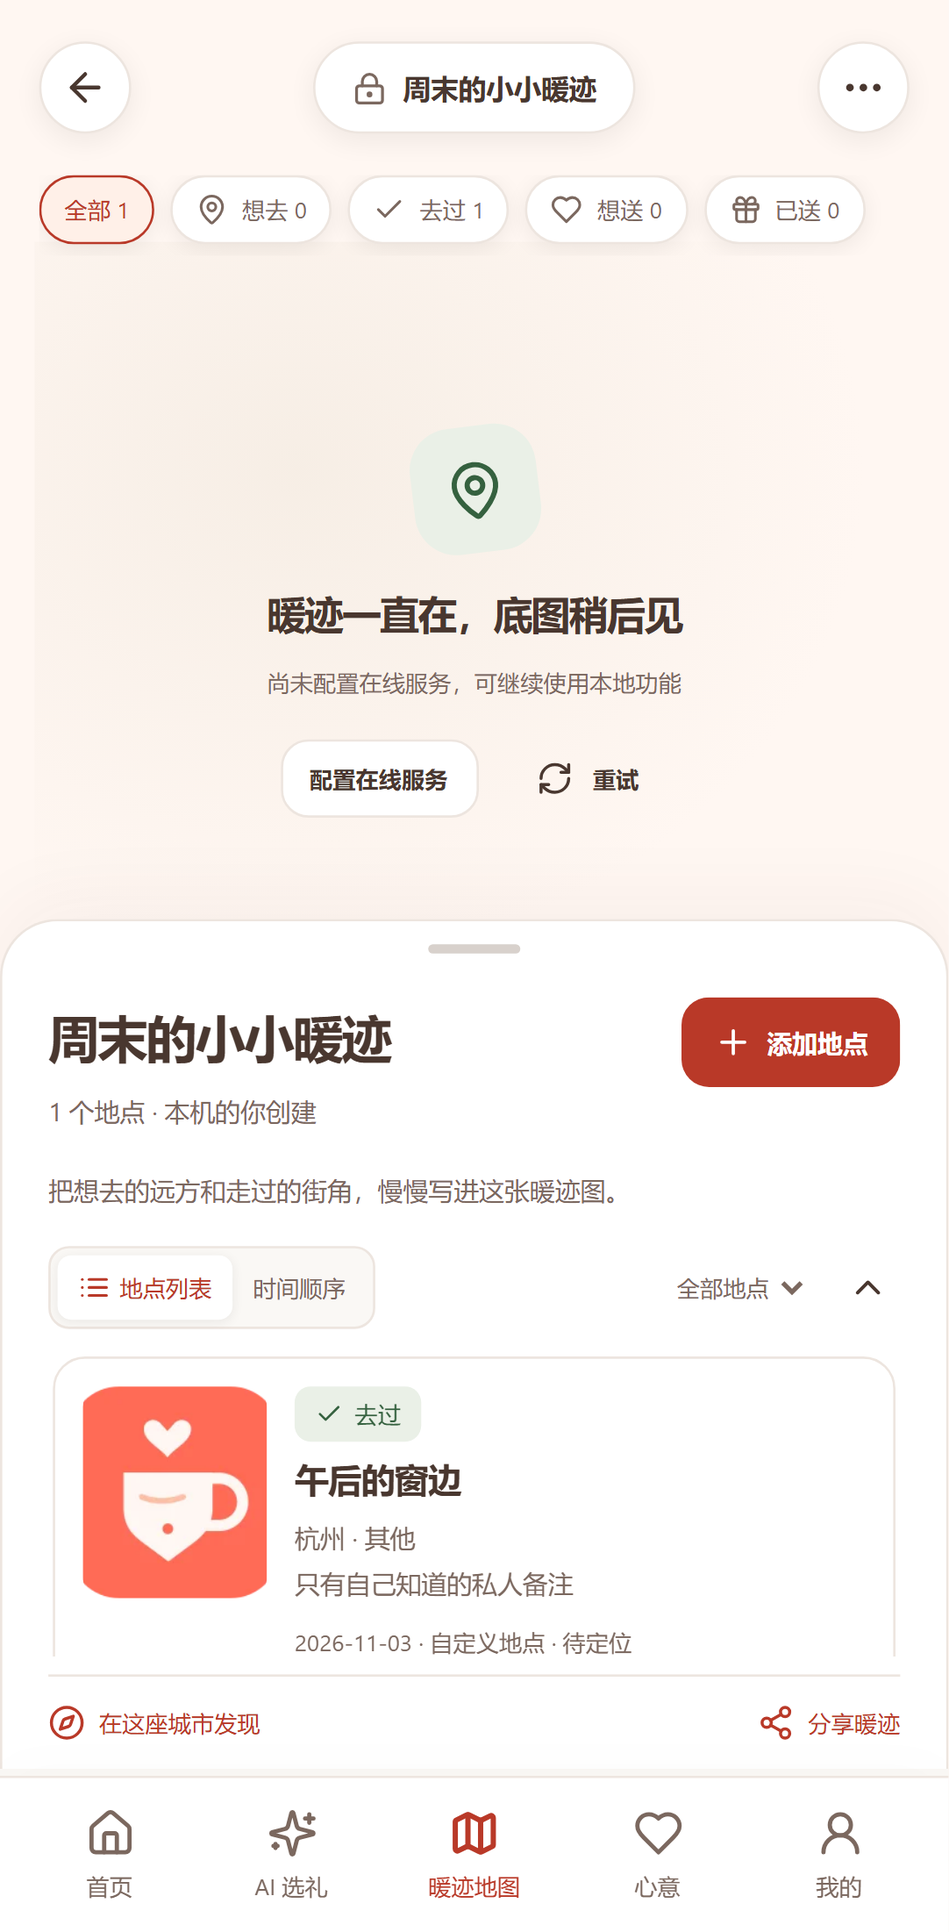
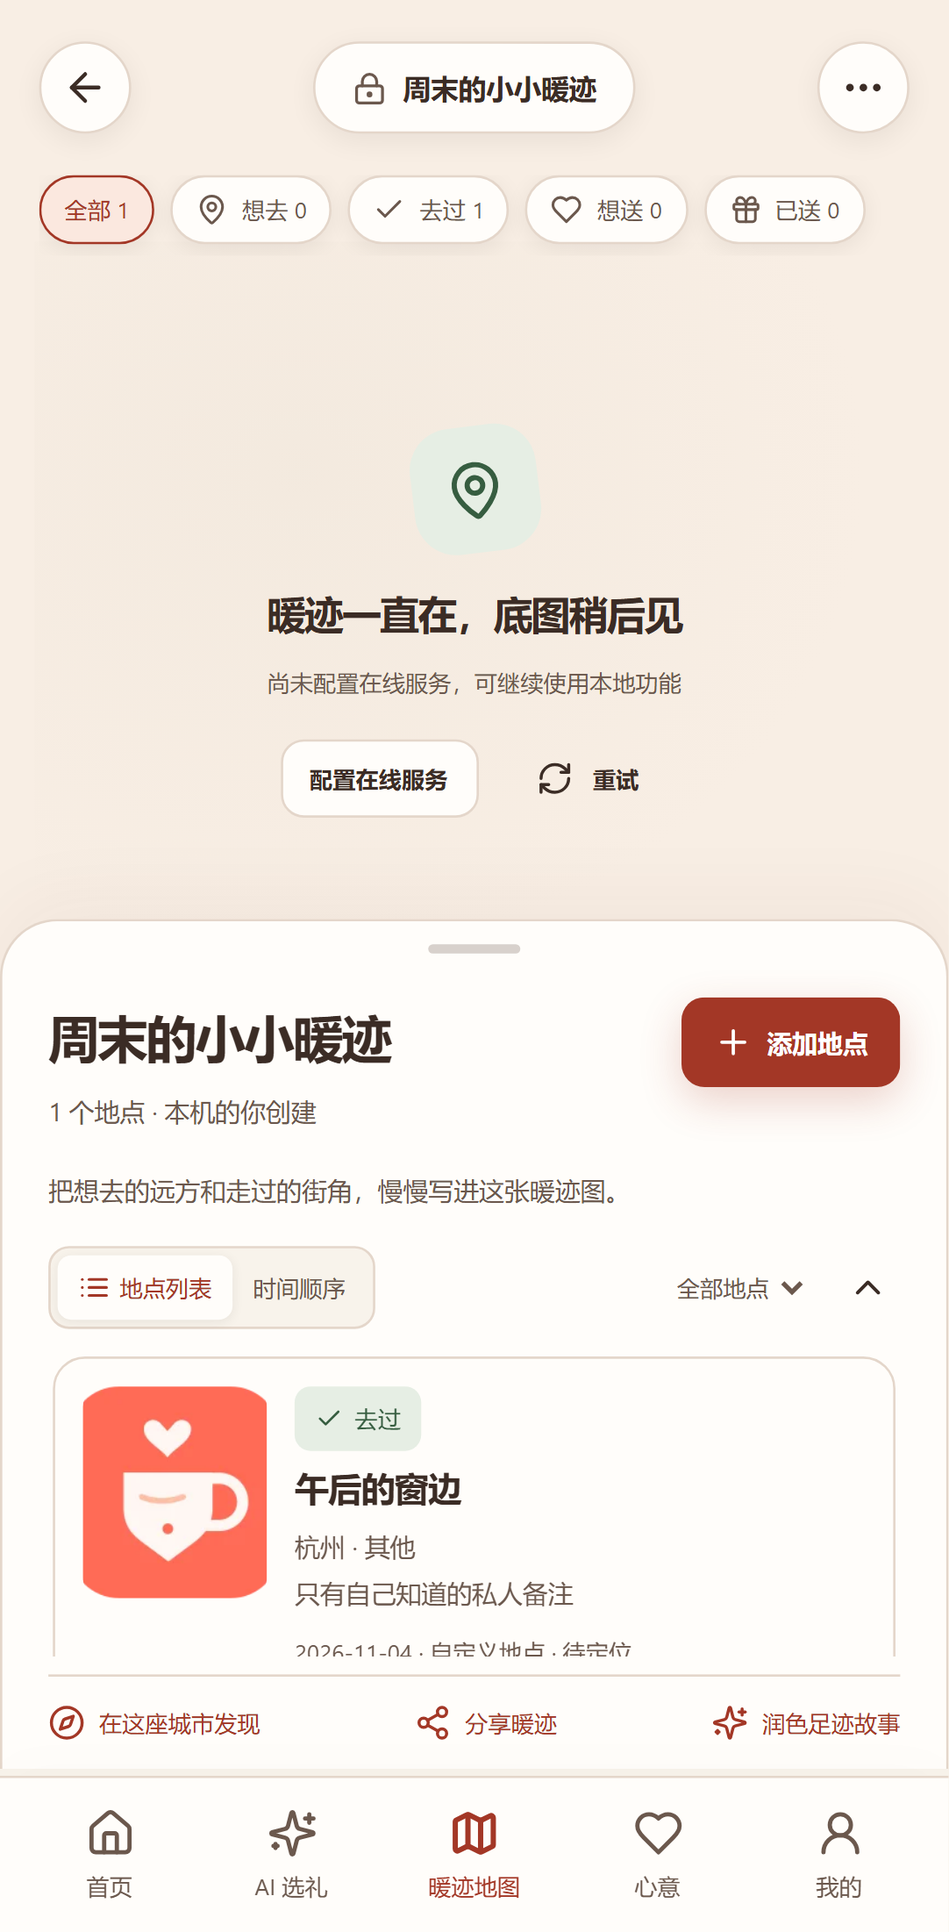
test: finalize 0.2 release gates and evidence

Changed region(s): [[0.305, 0.7103, 0.671, 0.8955], [0.732, 0.5559, 0.9455, 0.5867], [0.7625, 0.8647, 0.9455, 0.8955]]

diff --git a/playwright.config.ts b/playwright.config.ts
@@ -34,5 +34,6 @@ export default defineConfig({
     url: "http://127.0.0.1:1421",
     reuseExistingServer: false,
     timeout: 120_000,
+    gracefulShutdown: { signal: "SIGTERM", timeout: 5_000 },
   },
 });

diff --git a/src-tauri/src/lib.rs b/src-tauri/src/lib.rs
@@ -1,9 +1,34 @@
+use tauri::Manager;
+
 #[cfg_attr(mobile, tauri::mobile_entry_point)]
 pub fn run() {
     tauri::Builder::default()
         .plugin(tauri_plugin_dialog::init())
         .plugin(tauri_plugin_fs::init())
         .plugin(tauri_plugin_opener::init())
+        .setup(|app| {
+            let handle = app.handle().clone();
+            std::thread::spawn(move || {
+                std::thread::sleep(std::time::Duration::from_secs(2));
+                if let Some(window) = handle.get_webview_window("main") {
+                    let _ = window.eval(
+                        r#"
+                        (async () => {
+                          if (!("serviceWorker" in navigator)) return;
+                          const registrations = await navigator.serviceWorker.getRegistrations();
+                          await Promise.all(registrations.map((registration) => registration.unregister()));
+                          if ("caches" in window) {
+                            const keys = await caches.keys();
+                            await Promise.all(keys.map((key) => caches.delete(key)));
+                          }
+                          if (registrations.length) location.reload();
+                        })().catch(() => {});
+                        "#,
+                    );
+                }
+            });
+            Ok(())
+        })
         .run(tauri::generate_context!())
         .expect("WarmSip runtime could not start");
 }

diff --git a/README.md b/README.md
@@ -2,13 +2,13 @@
 
 ![WarmSip 原创品牌](assets/brand/exports/readme-banner.png)
 
-WarmSip 0.1.0 是无需注册的本地关怀记录应用：保存收礼人档案、选礼灵感、心意清单和时间胶囊，在「暖迹地图」中留下想去、去过、想送与已送的地点。记录与照片保存在本机；AI、高德地点、底图与天气需要自行配置服务端。
+WarmSip 0.2.0-beta.1 是无需注册的本地关怀记录应用：保存收礼人档案、选礼灵感、心意清单和时间胶囊，在「暖迹地图」中留下想去、去过、想送与已送的地点。记录与照片保存在本机；AI、高德地点、底图与天气通过可配置的 Fastify 服务连接。
 
-**预发布状态：** 本地业务可用；真实在线服务尚未联调。各系统的编译、签名、安装和核心功能验证分开记录，详见 [验收记录](docs/VALIDATION.md)。HarmonyOS 暂无可安装 HAP。私有仓库的源码及 Release 下载均需要仓库权限。
+**预发布状态：** 本地业务、暖纸手帐设计系统、pi AI 1.5.0 多模型服务、流式选礼、文案、地图灵感、城市导览和足迹故事均已实现。缺少生产凭证时，真实在线服务仍会明确显示“未联调”。HarmonyOS 暂无可安装 HAP。
 
-[预发布下载](https://github.com/YUHUANGSHANDIAN/WarmSip/releases/tag/v0.1.0) · [CI](https://github.com/YUHUANGSHANDIAN/WarmSip/actions) · [变更记录](docs/CHANGELOG.md) · [构建发布](docs/RELEASE.md)
+[预发布下载](https://github.com/YUHUANGSHANDIAN/WarmSip/releases/tag/v0.2.0-beta.1) · [CI](https://github.com/YUHUANGSHANDIAN/WarmSip/actions) · [变更记录](docs/CHANGELOG.md) · [构建发布](docs/RELEASE.md)
 
-[桌面首页截图](docs/screenshots/home-desktop.png) · [移动深色主题](docs/screenshots/home-mobile-dark.png) · [移动暖迹地图](docs/screenshots/map-mobile.png) · [Android 原生验收](docs/screenshots/android-native.png)
+[桌面首页](docs/screenshots/home-desktop.png) · [移动深色主题](docs/screenshots/home-mobile-dark.png) · [移动暖迹地图](docs/screenshots/map-mobile.png) · [AI 连接中心](docs/screenshots/ai-settings-mobile.png) · [0.1.0 Android 原生验收](docs/screenshots/android-native.png)
 
 ## 在本地运行
 
@@ -33,9 +33,11 @@ npm run test:e2e
 
 ## 在线服务
 
-将 `.env.example` 复制为 `.env`，填写访问令牌、允许的客户端来源及需要启用的提供方配置，然后运行 `npm run server:dev`。也可使用 `docker compose up -d --build`，通过 HTTPS 反向代理访问 `127.0.0.1:8787`。服务端监听网络接口时要求至少 24 字符的访问令牌。
+将 `.env.example` 复制为 `.env`，至少生成随机 `SERVICE_ACCESS_TOKEN` 和 `AI_CREDENTIAL_ENCRYPTION_KEY`，然后运行 `npm run server:dev`。也可使用 `docker compose up -d --build`，通过 HTTPS 反向代理访问 `127.0.0.1:8787`。Docker 使用持久卷保存加密 AI 配置。
 
-在应用「我的 → 在线服务」填写 HTTPS 服务地址和访问令牌，点击连接检查。访问令牌仅保留在当前会话，重启后需重新填写；上游 AI/高德密钥只放服务端。AI 建议中的商家信息不能代替 POI；真实地点从高德服务查询，不编造价格、评分或营业状态。
+在应用「我的 → 在线服务」填写 HTTPS 服务地址和访问令牌，点击连接检查，再进入「AI 模型与连接」添加 OpenAI、Anthropic、Google、DeepSeek、OpenRouter、Moonshot、MiniMax 或 OpenAI-compatible 模型。OpenRouter 支持官方 OAuth；其他 OAuth 入口本版不提供。
+
+模型密钥只保存在受令牌保护的单租户服务中，不写入浏览器、IndexedDB、备份或客户端包。服务只能单实例运行，不支持多用户隔离或匿名公网代理。每个任务显式选择模型，失败不会静默跨供应商重试。真实地点必须来自高德 POI，AI 只生成建议和经过校验的查询条件。
 
 ## 数据与隐私
 
@@ -43,6 +45,8 @@ npm run test:e2e
 - 分享先预览，默认排除照片、精确坐标、私人备注和收礼人。完整 ZIP 备份包含私人数据，请妥善保管。
 - ZIP 导入先校验和预览，再通过事务提交；旧版五个 `lg_warm_*_v1` 键的 JSON 导入见 [迁移说明](docs/MIGRATION.md)。
 - 时间胶囊按指定 IANA 时区的开启日零点开放。它是本地纪念功能，不提供防篡改加密锁定。
+- 过敏、忌口、私人备注和照片分别授权；每次 AI 任务发送前显示字段范围、模型与费用边界。
+- AI 用量只保存任务、模型、Token、费用来源和状态，不保存原始提示词或生成正文。
 - 本轮不包含支付、配送、公开社交、云同步、多人协作或 iOS。
 
 ## 平台与工程
@@ -58,6 +62,6 @@ npm run test:e2e
 
 `src/` 为 React 业务、`shared/` 为领域校验、`server/` 为 Fastify 服务、`src-tauri/` 与 `android/` 为原生工程。参考附件保留在开发目录并从版本控制排除；源码和杯子/爱心蒸汽/定位品牌均重新编写绘制。
 
-[地图技术说明](docs/MAP_TECHNICAL.md) · [品牌规范](docs/BRAND.md) · [HarmonyOS 阻塞与接入](harmony/README.md)
+[AI 架构与安全](docs/AI.md) · [地图技术说明](docs/MAP_TECHNICAL.md) · [品牌规范](docs/BRAND.md) · [HarmonyOS 阻塞与接入](harmony/README.md)
 
 许可证：[MIT](LICENSE)。

diff --git a/docs/RELEASE.md b/docs/RELEASE.md
@@ -1,10 +1,10 @@
-# 0.1.0 发布说明与证据清单
+# 0.2.0-beta.1 发布说明与证据清单
 
-开发分支为 `feat/warmsip-warmtrail-0.1.0`。通过 PR 审查和核心门禁后，以被验证的同一提交创建 `v0.1.0` 预发布标签。核心门禁未全部通过时不得创建标签。所有业务版本为 0.1.0。
+开发分支为 `feat/warmsip-ai-warmtrail-0.2.0`。通过 PR 审查和核心门禁后，以被验证的同一提交创建 `v0.2.0-beta.1` 预发布标签。不得覆盖原有 `v0.1.0` 标签或资产。
 
 每个平台单独记录：配置、编译、签名、安装启动、核心流程验证和上传。GitHub Actions 的平台矩阵使用 `fail-fast: false`，一个平台失败不会掩盖其他平台的结果。发布资产必须带 `SHA256SUMS`，并在上传前执行校验。
 
-当前已配置的项目证据：类型检查、ESLint、Vitest、服务端构建、Web/PWA 构建、Tauri 配置、Capacitor 配置、ArkWeb 壳和本地 Playwright 冒烟测试。高德、天气、AI、签名、公证、商店上传和 HarmonyOS HAP 状态必须依据实际凭证与设备日志填写；模拟测试不得写成已联调。
+当前门禁包括 ESLint、TypeScript、40 项 Vitest、14 项 Playwright 运行、服务端和 Web/PWA 生产构建、生产依赖审计、客户端包边界检查、Docker 健康与鉴权、Tauri、Capacitor 和 ArkWeb 配置。高德、天气、AI 真实推理、签名、公证和 HarmonyOS HAP 必须依据实际凭证与设备日志填写；模拟测试不得写成已联调。
 
 ## 工具链与目录
 
@@ -20,6 +20,8 @@ npm test
 npm run build
 npm run server:build
 npm run test:e2e
+npm run check:bundle
+npm run audit:prod
 npx tauri build --ci --bundles nsis
 # Linux: --bundles appimage,deb；macOS: --target <架构>-apple-darwin --bundles dmg
 npm run android:sync
@@ -33,5 +35,7 @@ node scripts/checksums.mjs --verify --out=artifacts/web/SHA256SUMS-web
 Linux 需要 WebKitGTK 4.1、GTK3、libappindicator3、librsvg、patchelf；AppImage 另依赖系统的 AppImage/FUSE 支持（或解包运行）。macOS 最低系统配置为 12.0，实际可用版本以各架构运行验证为准。Windows 需要 WebView2；安装包按当前用户安装。未配置发行证书的产物仅用于预发布测试。
 
 发布工作流先调用核心质量工作流，再独立编译平台。只有发布准备/上传任务拥有 `contents: write`，构建任务只有读取权限。每个平台的打包脚本核实真实文件数量后生成版本化文件名、提交 SHA 与元数据；上传前再次校验 SHA256。下载文件可在所在目录用 `sha256sum -c SHA256SUMS` 核验，Windows 可用 `Get-FileHash -Algorithm SHA256` 对照。
+
+AI 服务需要单独的安全配置。`SERVICE_ACCESS_TOKEN` 和 `AI_CREDENTIAL_ENCRYPTION_KEY` 不得写入构建产物；Docker 部署挂载持久化数据卷。没有真实服务商凭证或部署环境时，发布资产仍可包含完整服务端，但 AI/地图/天气在线状态必须标为“未联调”。
 
 Android 模拟器脚本安装 debug APK，创建地图、地点和照片，强制停止后核验照片和故事恢复，再通过系统 Back 返回地图详情，保存 UI 截图和设备信息。脚本同时要求原生窗口焦点；已知 Quickstep 系统弹窗恢复会留证，应用自身异常不会被忽略。Linux 的安装与进程存活、macOS 的签名与进程存活检查只属于启动冒烟验证，不代替原生文件/定位/分享的核心流程验证。

diff --git a/docs/VALIDATION.md b/docs/VALIDATION.md
@@ -1,8 +1,38 @@
-# 0.1.0 验收记录
+# 0.2.0-beta.1 验收记录
 
 本记录区分实际执行、提供方模拟和未验证项。源码配置存在不等于相应平台已发布。
 
-## 已执行
+## 0.2.0-beta.1 当前轮
+
+2026-11-04—05 在现有 Windows 开发机完成：
+
+- ESLint、TypeScript、40 项 Vitest 和服务端构建通过。新增测试覆盖 Dexie 1→2 原位迁移、AES-GCM 凭证密文与篡改检测、本地端点允许列表、双 faux Provider 显式路由、无跨 Provider 回退和 AI 软预算。
+- 14 项 Playwright 运行通过，覆盖原有 6 个桌面/移动业务场景、明暗主题 WCAG 2.2 AA，以及 360/390/430/768/1280/1440/1920 七档宽度无横向溢出。实际截图已更新到 `docs/screenshots`。
+- 实际修复旧版自动化遗漏的 390px 与 768px 暖迹地图标题竖排、筛选控件挤压和底部导航遮挡问题。
+- Web/PWA 与客户端包构建通过；最大 JS chunk 为 673,290 bytes，低于 850 KB 门槛，pi AI SDK 未进入客户端产物。
+- `npm audit --omit=dev` 报告 0 个生产依赖漏洞。
+- 本地 Fastify 服务实际启动，`/healthz` 通过；未携带访问令牌的 `/api/v1/ai/state` 返回 401；带令牌读取单租户状态通过。
+- 通过应用界面保存一个 OpenAI 测试连接后，持久化文件只含版本化 AES-GCM 密文，搜索不到测试 Key 明文；测试结束已通过服务 API 清除该连接。
+- Windows Tauri NSIS 实际编译并静默升级安装到 `D:\WarmSip`。安装后的 EXE 产品版本为 `0.2.0-beta.1`；旧地图、照片和私人备注均恢复，保存成功，AI 设置页可见。
+- 升级测试发现旧 0.1.0 PWA Service Worker 会在 WebView2 中继续提供旧应用壳。已改为仅 Web/PWA 注册 Service Worker，并由 Windows 原生入口延迟注销旧注册、清理旧缓存和重载。复验时 `navigator.serviceWorker.controller` 为空、注册列表为空，页面加载 `0.2.0-beta.1`，用户 IndexedDB 数据保持不变。
+
+| 项目 | 状态 | 证据/边界 |
+| --- | --- | --- |
+| pi AI 1.5.0 服务端集成 | 已编译、模拟路由通过 | 双 faux Provider、选择模型真实路由、SSE 解析、取消与结构校验由代码和单测覆盖 |
+| 加密凭证与令牌 | 已执行 | 服务端密文、401、来源限制和 SSRF 防护测试通过 |
+| OpenRouter OAuth | 已实现入口，未联调 | 缺 OAuth 应用配置与用户授权，不能记为真实成功 |
+| 其他 AI 提供商 | 已配置适配器，未联调 | 缺实际 API Key；网络测试不能由 faux 替代 |
+| 高德底图/POI/天气 | 未联调 | 缺高德 JS/Web 服务凭证和允许来源配置 |
+| Docker | CI 门禁已配置，本机无 Docker | 由 Ubuntu CI 构建、启动并检查健康与 401 |
+| Windows | 已编译、已安装、核心流程已验证 | NSIS 未签名；待最终同一提交的 CI 标签包与 Release 下载复核 |
+| Linux/macOS/Android/Web 发行包 | 待最终标签 CI | 不将本地开发构建当作已上传 Release |
+| HarmonyOS HAP | 阻塞 | 本机仍无 DevEco、SDK、OHPM、Hvigor 与签名 |
+
+以下 0.1.0 记录保留为历史证据，不能用于宣称 0.2.0-beta.1 已完成同版本全平台上传。
+
+## 0.1.0 历史验收
+
+### 已执行
 
 2026-11-03，Windows 开发机、Chromium 桌面 1440×1000 / Pixel 7 移动视口：
 

diff --git a/docs/MIGRATION.md b/docs/MIGRATION.md
@@ -2,6 +2,10 @@
 
 设置页支持两类输入：WarmSip ZIP（`manifest.json` + `media/<sha256>.<ext>`）和旧应用导出的 JSON。旧 JSON 需要包含以下存储键中的一个或多个：`lg_warm_profiles_v1`、`lg_warm_recs_v1`、`lg_warm_orders_v1`、`lg_warm_capsules_v1`、`lg_warm_city_v1`。导入前会读取、校验并显示数量，确认后才在单个 IndexedDB 事务中提交。
 
-完全相同的记录会跳过；同 ID 但内容不同的记录生成新 ID，并重映射地图、地点、心意和胶囊的关联。现有数据不会被覆盖。ZIP 会校验路径、解压大小、媒体 MIME、尺寸和 SHA-256；任何校验失败都回滚本次导入。凭证不写入备份。
+0.2.0 保持 IndexedDB 数据库名称 `warmsip-v1`，通过 Dexie schema 2 原位迁移。迁移为旧档案补充归档字段、空标签、预算和头像，为推荐补充未知模型元数据，把旧心意状态归一为待准备，为胶囊增加空照片列表。升级位于事务内；解析失败会回滚并保留旧数据。
+
+ZIP 清单版本 2 与 0.1.0 的版本 1 均可导入。导入结果中的记录会先经过当前 Zod schema 校验，未识别或损坏的数据不会被静默丢弃。
+
+完全相同的记录会跳过；同 ID 但内容不同的记录生成新 ID，并重映射地图、地点、心意和胶囊的关联。现有数据不会被覆盖。ZIP 会校验路径、解压大小、媒体 MIME、尺寸和 SHA-256；任何校验失败都回滚本次导入。AI API Key、OAuth Token、服务令牌、服务地址和 AI 用量不属于备份；恢复后需要重新连接 AI 服务。
 
 导入前建议先导出当前完整备份。回收站恢复是可逆操作；永久删除地图会同时永久删除其地点，但业务记录中的地点快照会保留。

diff --git a/docs/RELEASE_NOTES.md b/docs/RELEASE_NOTES.md
@@ -1,7 +1,7 @@
-WarmSip 0.1.0 首次预发布：收礼人档案、离线选礼灵感/盲盒、推荐历史、心意清单、时间胶囊、城市味道、私人暖迹地图，以及照片、回收站、ZIP 备份与旧版数据导入。
+WarmSip 0.2.0-beta.1 预发布：暖纸手帐设计升级、收礼人档案、AI 选礼 2.0、暖心文案、暖迹地图灵感、城市导览、足迹故事、扩展心意状态、时间胶囊照片和私人暖迹地图。
 
-在线 AI、地点、底图和天气采用可配置服务端。未提供生产凭证，真实在线服务未联调。默认数据仅在本机，分享默认排除私人字段。
+在线 AI 使用 pi AI 1.5.0 的可配置单租户服务，支持加密 BYOK、OpenRouter OAuth 和私有兼容端点；凭证不会进入客户端包或备份。默认数据仅在本机，分享默认排除私人字段。
 
 下载需要此私有仓库权限。Windows 包未做 Authenticode 签名；macOS 为 ad-hoc 测试签名且未公证；Android 为 debug 签名。HarmonyOS 工具链与签名缺失，没有 HAP。各平台资产独立生成，未出现的资产表示对应构建尚未成功，不代表已发布。
 
-下载后请核验 `SHA256SUMS`。每个平台附构建提交与状态 JSON；安装/启动和核心流程证据见同标签的 Actions 日志及 `docs/VALIDATION.md`。编译成功与模拟测试均不代表所有原生或线上场景已验收。
+下载后请核验 `SHA256SUMS`。每个平台附构建提交与状态 JSON；安装/启动和核心流程证据见同标签的 Actions 日志及 `docs/VALIDATION.md`。没有生产凭证时，AI、高德、天气真实在线均未联调；模拟 Provider 测试不能替代真实服务。

diff --git a/docs/BRAND.md b/docs/BRAND.md
@@ -1,5 +1,7 @@
 # WarmSip 品牌规范
 
-WarmSip 的中文显示名称为“WarmSip · 给 TA 点一杯温暖”，英文短句为 “Send a Little Warmth.”。主色暖珊瑚 `#FF6B57`，背景奶油 `#FFF7F2`，文字深棕 `#6A4B3C`；危险操作使用 `#B93928`，信息和焦点颜色必须保持可读对比度。
+WarmSip 的中文显示名称为“WarmSip · 给 TA 点一杯温暖”，英文短句为 “Send a Little Warmth.”。0.2.0 的“暖纸手帐”方向使用珊瑚 `#EF705E` 作为装饰色、可交互主色 `#A33726`、奶油纸面 `#F8F3EB`、卡片 `#FFFDFA` 和可可文字 `#3B2C25`。深色主题使用独立高对比变量；任何文字和控件都不得依赖装饰色单独表意。
 
-图形将杯子、心形蒸汽和定位轮廓组合为原创符号。SVG 母版在 `assets/brand`，运行 `npm run brand` 可重新生成 Web、PWA、Tauri 所需图标、横版标识、启动图和 README 展示图。深色主题使用同一图形和反转后的高对比文字，不改变产品名称。
+图形将杯子、心形蒸汽和定位轮廓组合为原创符号。SVG 母版在 `assets/brand`，运行 `npm run brand` 可重新生成 Web、PWA、Tauri 所需图标、横版标识、启动图和 README 展示图。
+
+系统使用 4/8px 间距节奏和三级圆角，卡片以纸张层次、细描边和克制阴影组织内容。动效持续 120–240ms；系统低动态偏好和应用的“减少界面动效”都会关闭过渡与平滑滚动。主要触控目标最小 44px，焦点环不得被裁切。

diff --git a/docs/CHANGELOG.md b/docs/CHANGELOG.md
@@ -1,5 +1,16 @@
 # 变更记录
 
+## 0.2.0-beta.1 · 预发布
+
+- 采用“暖纸手帐”设计语言，统一暖珊瑚、奶油纸面、可可文字、间距、圆角、焦点与深色主题。
+- 修复 390px 与 768px 下暖迹地图标题和筛选控件互相挤压的问题，并增加六档宽度回归。
+- 接入固定版本 `@earendil-works/pi-ai@1.5.0`，新增多 Provider、模型目录、任务路由、SSE 流式响应、取消、用量和软预算。
+- 新增单租户加密凭证存储、令牌与来源保护、SSRF 防护、OpenRouter OAuth、模型测试和凭据删除。
+- AI 选礼升级为结构化流式候选，并增加暖心文案、暖迹地图意图、城市导览和足迹故事。
+- 收礼人增加搜索、归档、偏好预算和敏感字段折叠；心意增加完整状态、来源和提醒；胶囊增加照片。
+- Dexie 与备份升级到版本 2，保留 v1 数据与备份兼容；AI 凭证永不进入备份。
+- CI 增加生产依赖审计、客户端包边界检查、Docker 健康与鉴权检查，以及 WCAG 2.2 AA 和六档视口回归。
+
 ## 0.1.0 · 预发布
 
 - 建立 React、TypeScript、Vite、Tauri 2、Capacitor 和 ArkWeb 共享工程。

diff --git a/docs/MAP_TECHNICAL.md b/docs/MAP_TECHNICAL.md
@@ -7,3 +7,5 @@
 高德 JS API 只接收客户端标识，Web 服务密钥、AI 密钥和天气请求由 Fastify 服务端持有。高德 POI 坐标标记为 `GCJ02`；设备定位是 `WGS84`，必须通过高德转换接口后才可用于底图。系统不会把 WGS84 数值直接当作 GCJ-02 使用。
 
 分享卡片默认只带标题、状态、地点名和城市摘要。精确坐标、照片、私人备注和收礼人信息需要逐项开启；完整 ZIP 备份单独提供并明确包含敏感字段。
+
+“AI 暖迹灵感”只把用户主动输入的描述转换成关键词、类别、城市和半径。客户端再调用真实 POI 搜索，模型不能直接创建地点、商家或坐标。足迹故事只读取用户选中地图的地点名称、状态、心情和经授权备注，生成结果先进入可编辑预览，用户确认后才更新地图介绍。照片和精确坐标默认不上传。
